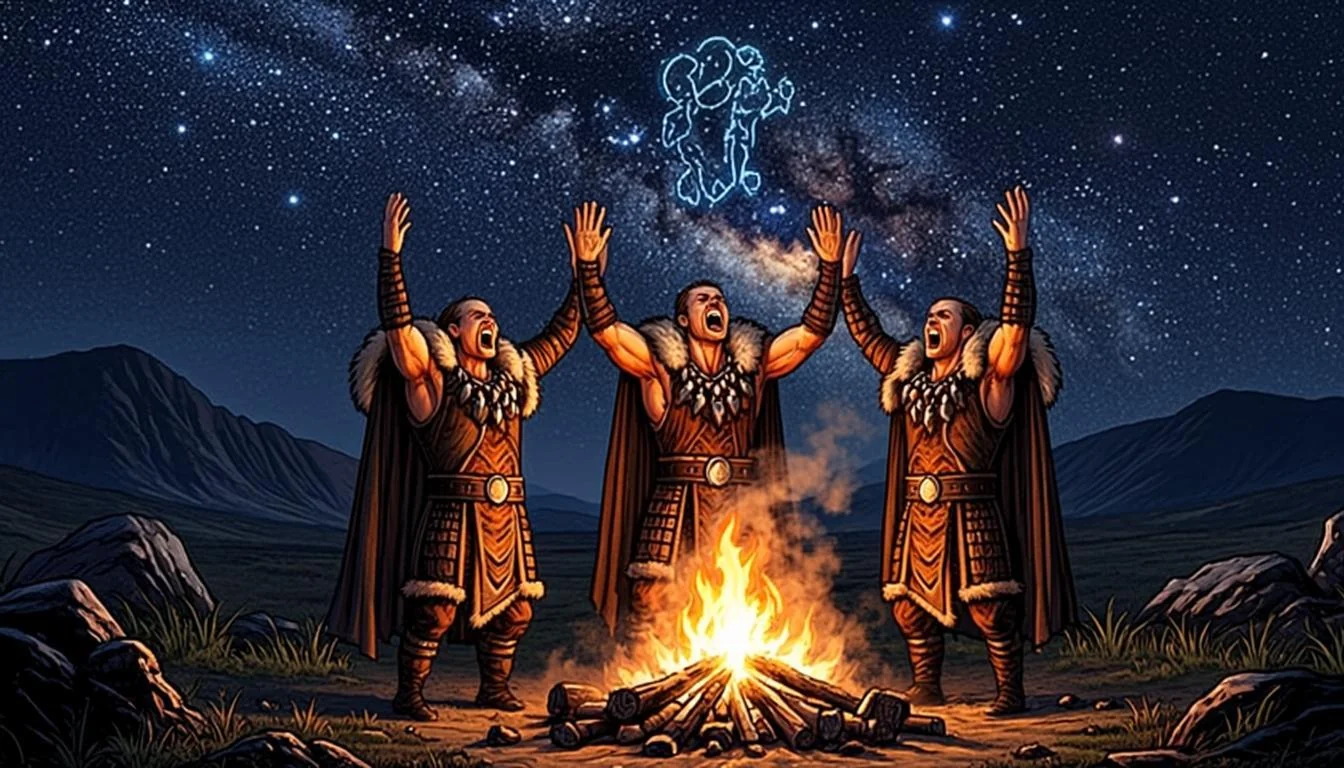
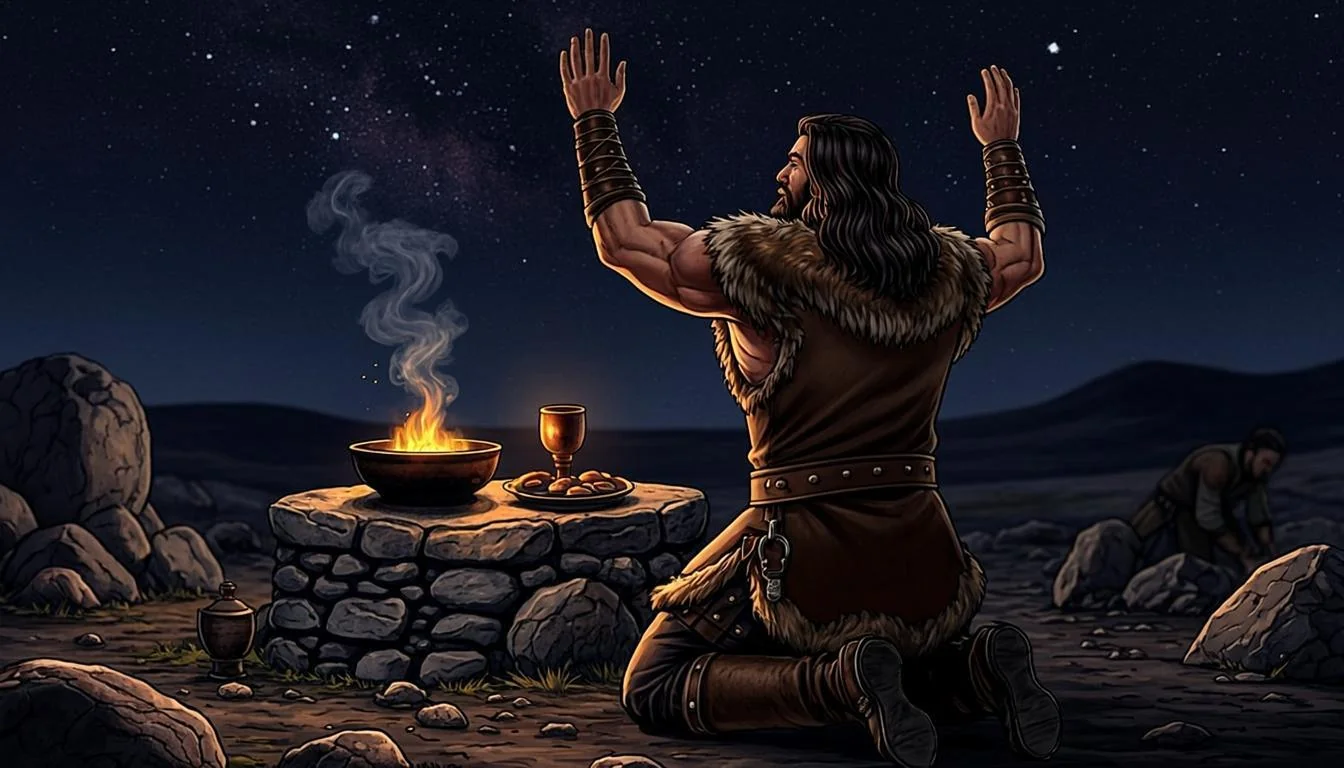
Campana por capitulos + artes nuevos: - Carta #04 Plegaria Arcana regenerada (jefe arrodillado de espaldas ante altar tosco, humo ascendente hacia cielo estrellado, 1344x768 webp q85) - Nuevo fondo de combate del Capitulo 1 'El Despertar en la Helade' (valle arcaico bajo la Niebla del Caos, fieles e

diff --git a/index.html b/index.html
@@ -22,9 +22,45 @@
                 <div class="mt-8 w-64 h-64 rounded-full bg-blue-900 shadow-[0_0_40px_rgba(59,130,246,0.4)] border border-blue-500/30"></div>
             </div>
             <div class="px-4 pb-20 z-20">
-                <button onclick="startGame()" class="w-full bg-gradient-to-r from-blue-600 to-indigo-600 border border-blue-400 py-3 rounded-full text-white font-orbitron font-black text-xl tracking-wider flex items-center justify-center gap-2 shadow-[0_0_15px_rgba(59,130,246,0.5)] active:scale-95 transition-transform">
+                <button onclick="openChapters()" class="w-full bg-gradient-to-r from-blue-600 to-indigo-600 border border-blue-400 py-3 rounded-full text-white font-orbitron font-black text-xl tracking-wider flex items-center justify-center gap-2 shadow-[0_0_15px_rgba(59,130,246,0.5)] active:scale-95 transition-transform">
                     JUGAR <i class="fa-solid fa-bolt text-amber-300"></i>
                 </button>
+            </div>
+        </div>
+
+        <!-- SELECCIÓN DE CAPÍTULOS -->
+        <div id="view-chapters" class="view-section hidden-view bg-slate-950 z-10">
+            <div class="flex items-center justify-between px-4 pt-6 pb-2 border-b border-slate-800">
+                <span class="text-blue-400 font-bold border-b-2 border-blue-400 pb-1 font-orbitron">CAPÍTULOS</span>
+                <span class="text-[10px] text-slate-500 font-bold">La campaña se narra capítulo a capítulo</span>
+            </div>
+            <div class="flex-1 p-4 overflow-y-auto pb-20">
+                <div id="chapters-list" class="space-y-5">
+                    <!-- Renderizado JS -->
+                </div>
+            </div>
+        </div>
+
+        <!-- INTRO NARRATIVA DEL CAPÍTULO -->
+        <div id="view-chapter-intro" class="view-section hidden-view z-10">
+            <div id="chapter-intro-bg" class="chapter-bg active"></div>
+            <div class="chapter-bg-shade active"></div>
+            <div class="flex-1 overflow-y-auto relative z-10 px-5 pt-8 pb-44">
+                <span class="text-amber-400 font-orbitron text-[11px] tracking-[0.3em] font-bold">CAPÍTULO <span id="intro-chapter-number">1</span></span>
+                <h2 id="intro-chapter-title" class="text-white font-orbitron font-black text-2xl mt-1 leading-tight glow-text-blue"></h2>
+                <p id="intro-chapter-subtitle" class="text-slate-300 text-sm mt-3 leading-snug"></p>
+                <div id="intro-beats" class="mt-5 space-y-3">
+                    <!-- Renderizado JS -->
+                </div>
+            </div>
+            <div class="absolute bottom-0 w-full px-5 pb-24 z-20">
+                <button onclick="launchChapterCombat()" class="w-full bg-gradient-to-r from-blue-600 to-indigo-600 border border-blue-400 py-3 rounded-full text-white font-orbitron font-black text-lg tracking-wider flex items-center justify-center gap-2 shadow-[0_0_15px_rgba(59,130,246,0.5)] active:scale-95 transition-transform">
+                    COMENZAR COMBATE <i class="fa-solid fa-bolt text-amber-300"></i>
+                </button>
+                <button onclick="switchView('view-deckbuilder')" class="w-full mt-2 bg-slate-900/90 border border-slate-600 py-2.5 rounded-full text-slate-200 font-orbitron font-bold text-sm tracking-wider active:scale-95 transition-transform">
+                    PREPARAR MAZO
+                </button>
+                <button onclick="switchView('view-chapters')" class="w-full mt-1 text-slate-400 font-bold text-xs tracking-widest uppercase py-2 hover:text-white transition">Volver a capítulos</button>
             </div>
         </div>
 
@@ -99,6 +135,8 @@
 
         <!-- COMBATE -->
         <div id="view-game" class="view-section hidden-view z-10 bg-combat-planet">
+            <div id="combat-chapter-bg" class="chapter-bg"></div>
+            <div id="combat-chapter-shade" class="chapter-bg-shade"></div>
             <div class="planet-sphere"></div>
 
             <header class="w-full px-2 pt-2 pb-2 flex flex-col gap-2 bg-slate-950/80 backdrop-blur-md border-b border-slate-800/50 z-20 relative">
@@ -118,8 +156,8 @@
                     </div>
                     <div class="flex items-center justify-end gap-2 bg-slate-900/60 border border-fuchsia-500/50 rounded-lg px-2 py-1 w-[40%] shadow-[0_0_10px_rgba(217,70,239,0.2)]">
                         <div class="flex flex-col text-right">
-                            <span class="text-[10px] font-bold text-white leading-none">Caos</span>
-                            <span class="text-[8px] text-fuchsia-300 font-bold leading-none mt-0.5">TELAR <i class="fa-solid fa-eye"></i></span>
+                            <span id="rival-name" class="text-[10px] font-bold text-white leading-none">Caos</span>
+                            <span id="rival-sub" class="text-[8px] text-fuchsia-300 font-bold leading-none mt-0.5">TELAR <i class="fa-solid fa-eye"></i></span>
                         </div>
                         <div class="w-6 h-6 rounded-full bg-fuchsia-900/50 border border-fuchsia-400 flex items-center justify-center text-fuchsia-300">
                             <i class="fa-solid fa-user-ninja text-[10px]"></i>
@@ -235,12 +273,16 @@
         <div id="gameover-modal" class="absolute inset-0 bg-black/90 z-50 flex flex-col items-center justify-center p-6 hidden-view backdrop-blur-sm">
             <div class="text-center w-full max-w-xs">
                 <h2 id="gameover-title" class="text-3xl font-orbitron font-black text-amber-400 mb-2 glow-text-blue">¡VICTORIA!</h2>
-                <div class="bg-slate-900 border border-slate-700 rounded-xl p-4 mb-6">
+                <div class="bg-slate-900 border border-slate-700 rounded-xl p-4 mb-3">
                     <p class="text-slate-400 text-sm mb-2">Puntuación Final</p>
                     <div class="flex justify-between text-xl font-bold font-orbitron">
                         <span class="text-cyan-400">Tú: <span id="final-p1">0</span></span>
                         <span class="text-fuchsia-400">Rival: <span id="final-p2">0</span></span>
                     </div>
+                </div>
+                <div id="gameover-epilogue" class="hidden bg-slate-900/70 border border-amber-500/40 rounded-xl p-3 mb-6">
+                    <p class="text-[9px] text-amber-300 font-orbitron font-bold tracking-widest mb-1 text-center">AVANCE DE LA HISTORIA</p>
+                    <p id="gameover-epilogue-text" class="text-[11px] text-amber-100/90 italic leading-snug text-center"></p>
                 </div>
                 <button onclick="closeGameOverAndRestart()" class="w-full bg-blue-600 py-3 rounded-xl font-bold text-white mb-3 shadow-lg active:scale-95 transition">Jugar de nuevo</button>
                 <button onclick="switchView('view-home'); closeGameOverModal();" class="w-full bg-slate-800 py-3 rounded-xl font-bold text-slate-300 active:scale-95 transition">Volver al menú</button>
@@ -272,6 +314,7 @@
     <script src="js/cards.js"></script>
     <script src="js/state.js"></script>
     <script src="js/deck.js"></script>
+    <script src="js/chapters.js"></script>
     <script src="js/ui.js"></script>
     <script src="js/game.js"></script>
     <script src="js/main.js"></script>

diff --git a/js/ui.js b/js/ui.js
@@ -117,15 +117,119 @@
             let p1Score = gameState.p1.score;
             let p2Score = gameState.p2.score;
             let title = document.getElementById('gameover-title');
-            
+
             if (p1Score > p2Score) { title.innerText = "¡VICTORIA!"; title.className = "text-3xl font-orbitron font-black text-amber-400 mb-2 glow-text-blue"; }
             else if (p1Score < p2Score) { title.innerText = "DERROTA"; title.className = "text-3xl font-orbitron font-black text-red-500 mb-2"; }
             else { title.innerText = "EMPATE"; title.className = "text-3xl font-orbitron font-black text-slate-300 mb-2"; }
-            
+
             document.getElementById('final-p1').innerText = p1Score;
             document.getElementById('final-p2').innerText = p2Score;
+
+            // Avance de la historia: al vencer en un capítulo se marca como
+            // completado y se muestra su epílogo en el modal.
+            let epilogueBox = document.getElementById('gameover-epilogue');
+            if (p1Score > p2Score && currentChapter) {
+                markChapterCompleted(currentChapter.id);
+                document.getElementById('gameover-epilogue-text').innerText = currentChapter.epilogue;
+                epilogueBox.classList.remove('hidden');
+            } else {
+                epilogueBox.classList.add('hidden');
+            }
+
             document.getElementById('gameover-modal').classList.remove('hidden-view');
         }
 
         function closeGameOverModal() { document.getElementById('gameover-modal').classList.add('hidden-view'); }
         function closeGameOverAndRestart() { closeGameOverModal(); resetMatch(); startGame(); }
+
+        // --- CAPÍTULOS ---
+        // Selección de capítulos, intro narrativa y lanzamiento del combate
+        // con el arte y el mazo del bot del capítulo activo.
+        function openChapters() {
+            switchView('view-chapters');
+        }
+
+        function renderChapterSelect() {
+            let container = document.getElementById('chapters-list');
+            container.innerHTML = '';
+
+            CHAPTERS.forEach((ch) => {
+                let done = isChapterCompleted(ch.id);
+                let item = document.createElement('div');
+                item.className = "active:scale-[0.98] transition-transform cursor-pointer";
+                item.onclick = () => openChapterIntro(ch.id);
+                item.innerHTML = `
+                    <div class="relative rounded-xl overflow-hidden border-2 ${done ? 'border-amber-400/70 shadow-[0_0_15px_rgba(251,191,36,0.25)]' : 'border-blue-500/70 shadow-[0_0_15px_rgba(59,130,246,0.25)]'}">
+                        <div class="aspect-[16/10] bg-cover bg-center" style="background-image:url('${ch.art}')"></div>
+                        <div class="absolute inset-0 bg-gradient-to-t from-black/90 via-black/25 to-black/45"></div>
+                        <div class="absolute top-2 left-3 right-3 flex items-center justify-between">
+                            <span class="text-[9px] font-orbitron tracking-[0.25em] text-amber-300 font-bold">CAPÍTULO ${ch.number}</span>
+                            ${done
+                                ? '<span class="text-[8px] bg-green-600/90 text-white px-1.5 py-0.5 rounded font-bold">✓ COMPLETADO</span>'
+                                : '<span class="text-[8px] bg-blue-600/90 text-white px-1.5 py-0.5 rounded font-bold">DISPONIBLE</span>'}
+                        </div>
+                        <div class="absolute bottom-2 left-3 right-3">
+                            <div class="text-white font-orbitron font-black text-base leading-tight">${ch.title}</div>
+                            <div class="text-[10px] text-slate-300 font-bold mt-0.5">
+                                <i class="fa-solid fa-user-ninja text-fuchsia-300"></i> Rival: ${ch.rival.name} · ${ch.botDeck.length} cartas
+                            </div>
+                        </div>
+                    </div>
+                `;
+                container.appendChild(item);
+            });
+
+            // Hueco para capítulos futuros: la campaña crecerá.
+            let locked = document.createElement('div');
+            locked.className = "relative rounded-xl border-2 border-dashed border-slate-800 bg-slate-900/60 overflow-hidden aspect-[16/10] flex flex-col items-center justify-center gap-2 opacity-70";
+            locked.innerHTML = `
+                <i class="fa-solid fa-lock text-2xl text-slate-600"></i>
+                <span class="text-slate-400 font-orbitron font-bold text-xs tracking-widest">PRÓXIMAMENTE</span>
+                <span class="text-[10px] text-slate-500">Nuevos capítulos, mazos y lore en camino...</span>
+            `;
+            container.appendChild(locked);
+        }
+
+        function openChapterIntro(chapterId) {
+            let ch = CHAPTERS.find(c => c.id === chapterId);
+            if (!ch) return;
+            currentChapter = ch;
+
+            document.getElementById('intro-chapter-number').innerText = ch.number;
+            document.getElementById('intro-chapter-title').innerText = ch.title;
+            document.getElementById('intro-chapter-subtitle').innerText = ch.subtitle;
+            document.getElementById('chapter-intro-bg').style.backgroundImage = `url('${ch.art}')`;
+
+            let beats = document.getElementById('intro-beats');
+            beats.innerHTML = ch.beats.map(b => `
+                <div class="flex gap-3 bg-slate-900/80 border border-slate-700 rounded-xl p-3">
+                    <div class="w-8 h-8 rounded-full bg-blue-950/80 border border-amber-400/60 flex items-center justify-center text-amber-300 shrink-0">
+                        <i class="fa-solid ${b.icon} text-xs"></i>
+                    </div>
+                    <div>
+                        <div class="text-amber-300 font-orbitron font-bold text-xs">${b.title}</div>
+                        <p class="text-slate-300 text-[11px] leading-snug mt-0.5">${b.text}</p>
+                    </div>
+                </div>
+            `).join('');
+
+            switchView('view-chapter-intro');
+        }
+
+        function launchChapterCombat() {
+            if (!currentChapter) { openChapters(); return; }
+            if (playerDeck.length === 0) { alert("¡Tu mazo está vacío!"); return; }
+
+            rivalDeck = getChapterBotDeck();
+            document.getElementById('rival-name').innerText = currentChapter.rival.name;
+            document.getElementById('rival-sub').innerHTML = `${currentChapter.rival.sub} <i class="fa-solid fa-eye"></i>`;
+
+            let bg = document.getElementById('combat-chapter-bg');
+            bg.style.backgroundImage = `url('${currentChapter.art}')`;
+            bg.classList.add('active');
+            document.getElementById('combat-chapter-shade').classList.add('active');
+            document.querySelector('#view-game .planet-sphere').style.display = 'none';
+
+            closeGameOverModal();
+            startGame();
+        }

diff --git a/js/chapters.js b/js/chapters.js
@@ -1,0 +1,48 @@
+// --- CAPÍTULOS ---
+// Datos narrativos de la campaña. Cada capítulo define su intro (beats del
+// relato), su epílogo al vencer, el arte de fondo del combate y el mazo del
+// bot. Para añadir capítulos futuros basta con agregar entradas aquí: la
+// pantalla de selección, la intro y el combate se generan solos.
+const CHAPTERS = [
+    {
+        id: 1,
+        number: 1,
+        title: 'El Despertar en la Hélade',
+        subtitle: 'La historia comienza en una Grecia arcaica y dividida. Las tribus moran en valles oscuros y en las laderas de Arcadia, temiendo la noche y rindiendo culto a las fuerzas telúricas de la tierra.',
+        beats: [
+            { icon: 'fa-cloud', title: 'La Niebla del Caos', text: 'Una densa penumbra cae sobre los valles. Los mortales desesperados elevan sus primeras plegarias en altares de piedra tosca.' },
+            { icon: 'fa-paw', title: 'Los Primeros Encuentros', text: 'De las sombras de los bosques antiguos surgen criaturas híbridas y feroces que atacan los primeros asentamientos.' },
+            { icon: 'fa-sun', title: 'La Chispa de la Fe', text: 'La devoción de los mortales resuena en las alturas del Olimpo, provocando la primera intervención divina directa.' }
+        ],
+        epilogue: 'La fe de los mortales encendió la primera chispa y el Olimpo respondió: la primera intervención divina marca el amanecer de una nueva era. La Niebla del Caos retrocede por ahora, pero las criaturas siguen acechando entre los bosques antiguos... y la Hélade necesitará héroes para lo que viene.',
+        art: 'assets/capitulos/capitulo-01-el-despertar-en-la-helade.webp',
+        rival: { name: 'Caos', sub: 'TELAR' },
+        botDeck: ['c1', 'c2', 'c3', 'c4', 'c5', 'c6', 'c7', 'c8', 'c9', 'c10']
+    }
+];
+
+// Capítulo seleccionado (define el fondo de combate y el mazo del bot).
+let currentChapter = null;
+
+// Progreso persistente: ids de capítulos completados.
+function getCompletedChapters() {
+    let raw = safeStorageGet('nexo_chapters_v1');
+    if (!raw) return [];
+    try { return JSON.parse(raw); } catch(e) { return []; }
+}
+
+function isChapterCompleted(id) { return getCompletedChapters().includes(id); }
+
+function markChapterCompleted(id) {
+    let done = getCompletedChapters();
+    if (!done.includes(id)) {
+        done.push(id);
+        safeStorageSet('nexo_chapters_v1', JSON.stringify(done));
+    }
+}
+
+// Mazo del bot del capítulo activo (resuelve ids contra las plantillas).
+function getChapterBotDeck() {
+    if (!currentChapter) return ALL_CARDS;
+    return currentChapter.botDeck.map(id => ALL_CARDS.find(c => c.id === id)).filter(c => c !== undefined);
+}

diff --git a/js/game.js b/js/game.js
@@ -71,6 +71,9 @@
         }
 
         function startGame() {
+            // El combate siempre ocurre dentro de un capítulo: si no hay
+            // capítulo activo se lleva al jugador a la selección.
+            if (!currentChapter) { openChapters(); return; }
             if(playerDeck.length === 0) { alert("¡Tu mazo está vacío!"); return; }
             
             if (gameState.isPlaying) { pauseGame(); return; }
@@ -135,6 +138,9 @@
 
         function resetMatch() {
             pauseGame();
+            // El mazo del bot sale de los datos del capítulo activo
+            // (Capítulo 1: las 10 cartas del mazo Heládico).
+            rivalDeck = getChapterBotDeck();
             gameState.turn = 0; // el primer tick pasa a mostrar TURNO 1 (antes mostraba 2)
             gameState.justDeployed = [];
             gameState.p1 = { score: 0, energy: 1, deckPointer: 0, activeBoard: [], lastPlayed: null, costDiscount: 0, extraPoints: 0, extraDraws: 0 };

diff --git a/css/styles.css b/css/styles.css
@@ -120,3 +120,20 @@ body {
     position: absolute; inset: 0; background: rgba(0,0,0,0.7); z-index: 30;
     display: flex; justify-content: center; align-items: center; backdrop-filter: blur(2px);
 }
+
+/* --- CAPÍTULOS --- */
+/* Capa de arte del capítulo: intro narrativa y fondo de combate. */
+.chapter-bg {
+    position: absolute; inset: 0;
+    background-size: cover; background-position: center;
+    opacity: 0; transition: opacity 0.6s ease;
+    z-index: 0; pointer-events: none;
+}
+.chapter-bg.active { opacity: 1; }
+/* Velo para que el HUD y las cartas se lean sobre el arte del capítulo. */
+.chapter-bg-shade {
+    position: absolute; inset: 0; z-index: 1; pointer-events: none;
+    opacity: 0; transition: opacity 0.6s ease;
+    background: linear-gradient(to bottom, rgba(2,6,23,0.72) 0%, rgba(2,6,23,0.42) 45%, rgba(2,6,23,0.85) 100%);
+}
+.chapter-bg-shade.active { opacity: 1; }

diff --git a/js/main.js b/js/main.js
@@ -11,6 +11,7 @@
             document.querySelectorAll('.view-section').forEach(el => el.classList.add('hidden-view'));
             document.getElementById(viewId).classList.remove('hidden-view');
             if (viewId === 'view-game') resetMatch();
+            if (viewId === 'view-chapters') renderChapterSelect();
             if (viewId === 'view-deckbuilder') { renderDeckEditor(); renderCollection(); }
             if (viewId === 'view-decks') document.getElementById('deck-count-label').innerText = playerDeck.length;
         }
